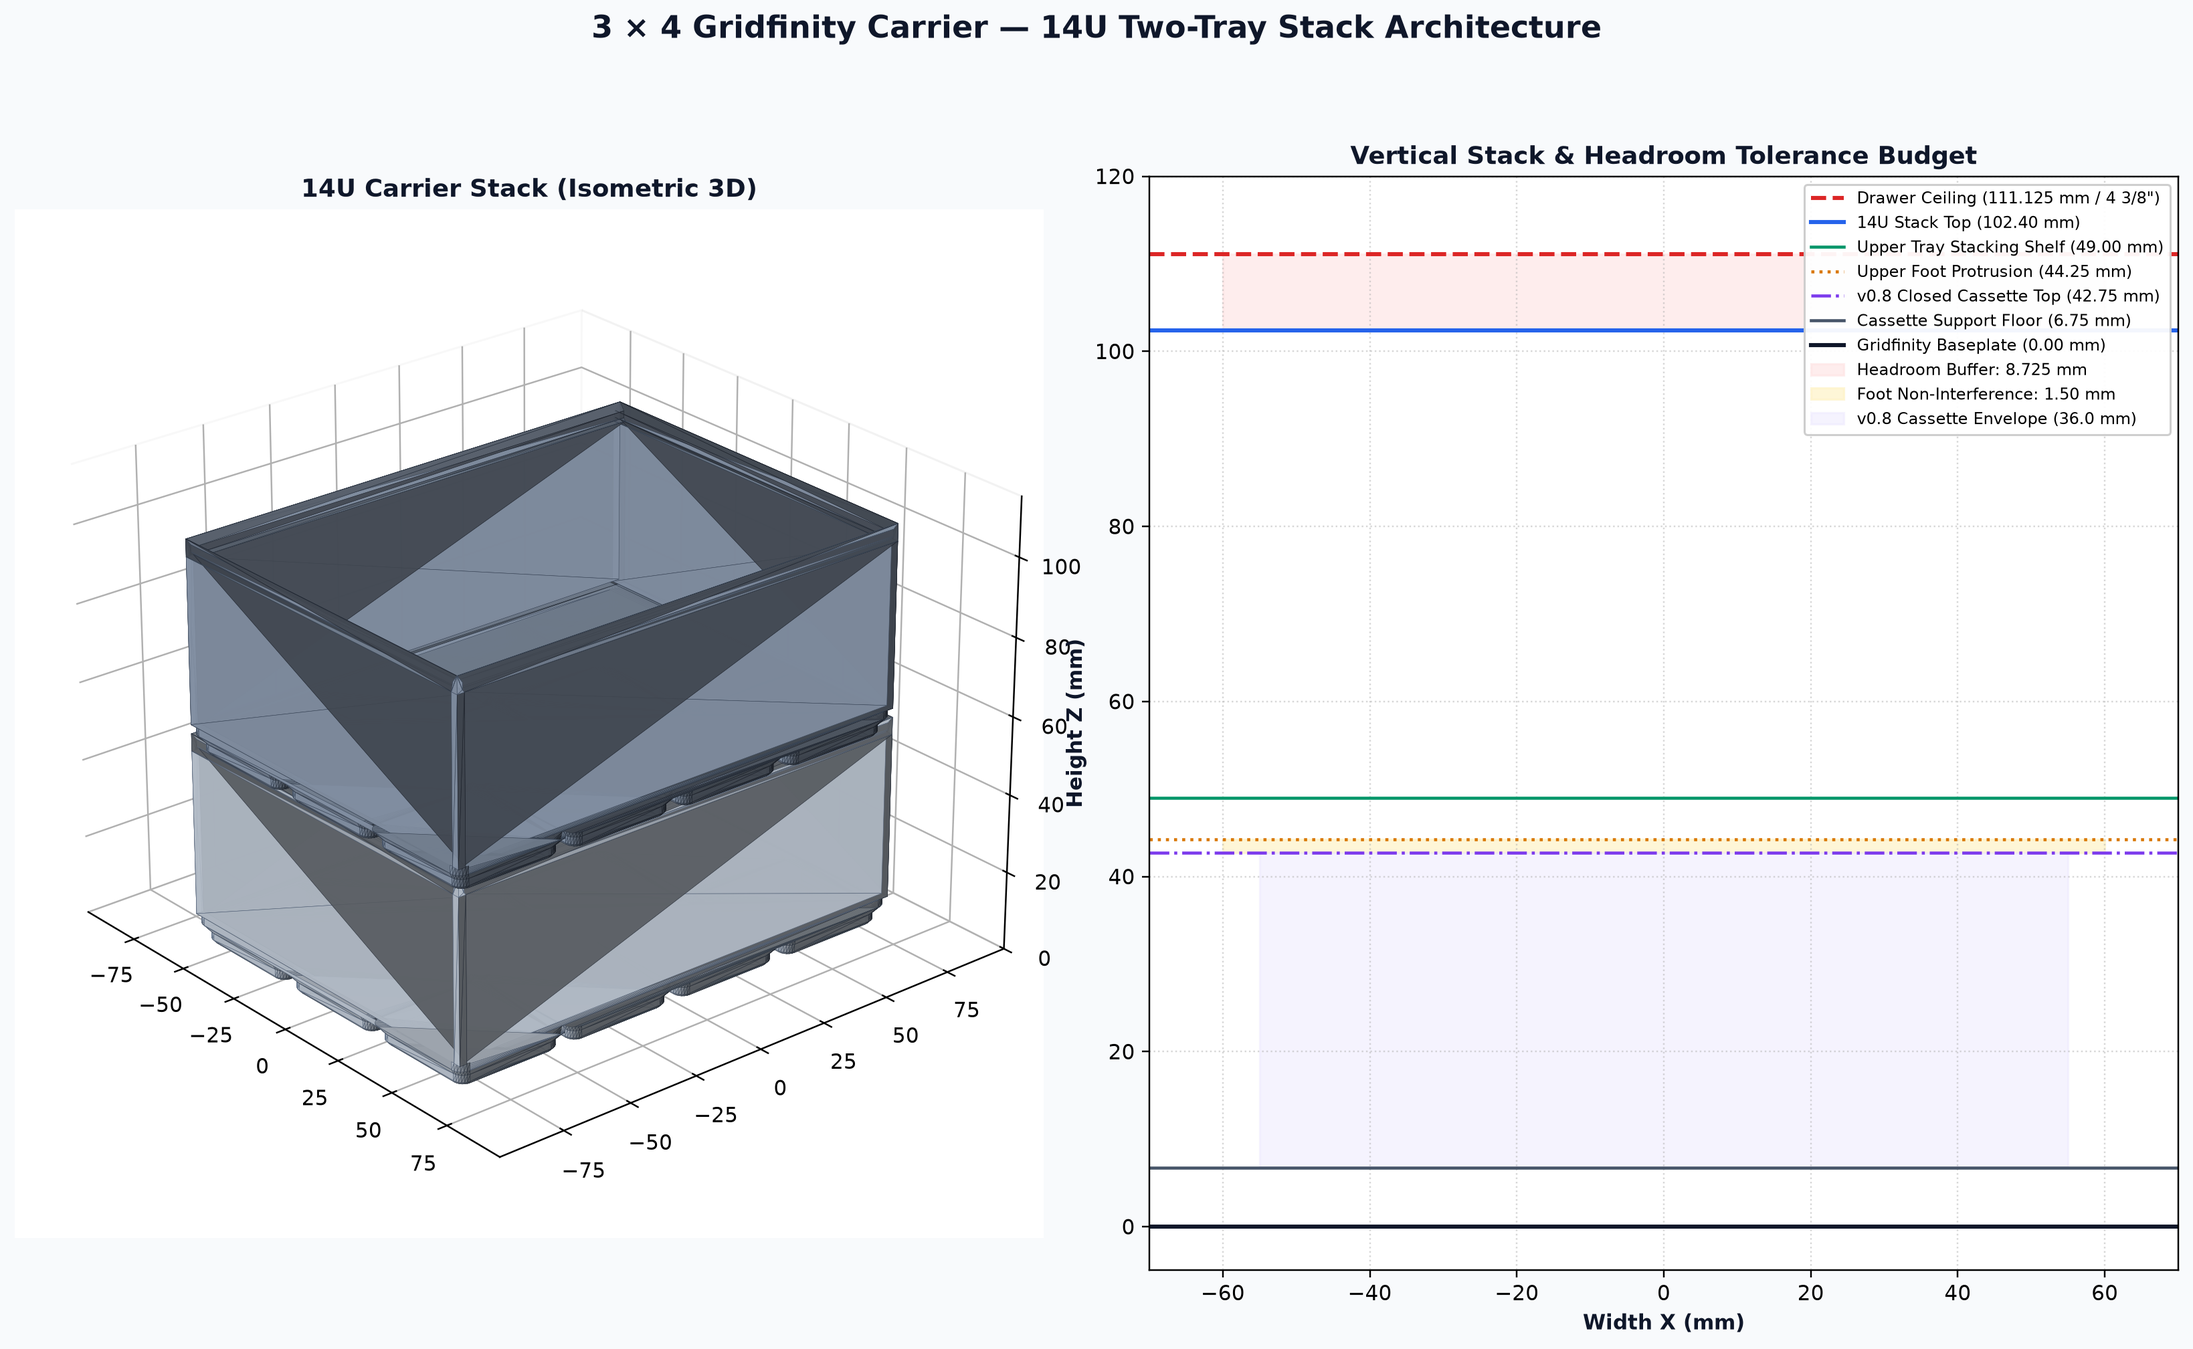
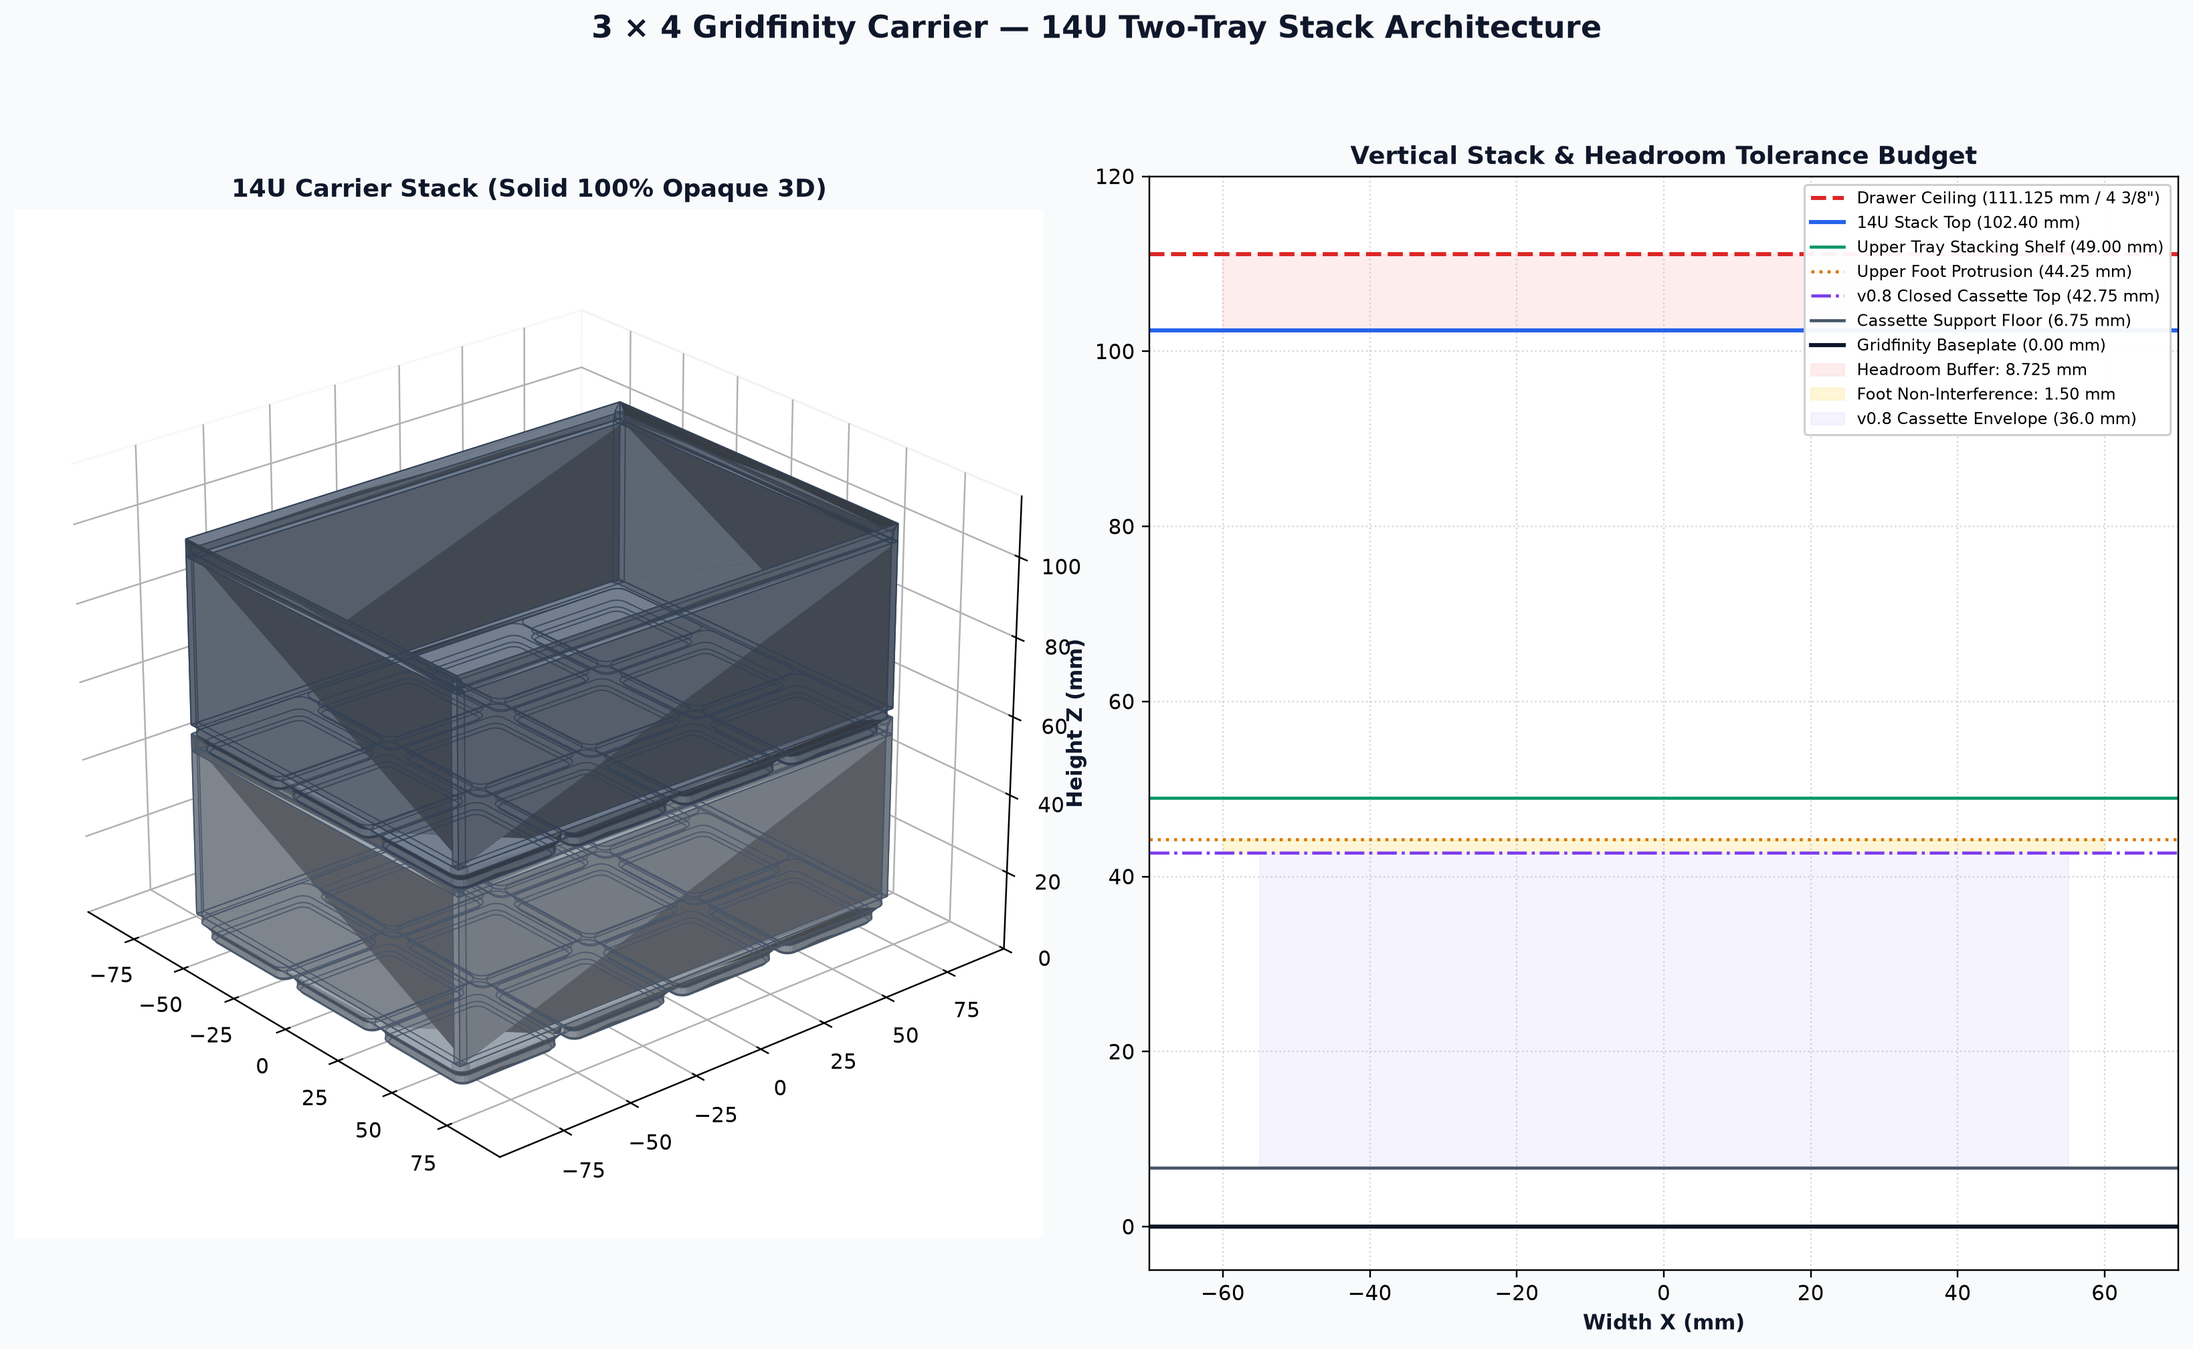
docs: update all 3D CAD renders to 100% solid opacity with crease lines and clean glass transparency

Changed region(s): [[0.0622, 0.2811, 0.4356, 0.8121], [0.0933, 0.1249, 0.3734, 0.1562]]

diff --git a/scripts/generate_all_renders.py b/scripts/generate_all_renders.py
@@ -1,12 +1,13 @@
 #!/usr/bin/env python3
-"""Generate high-resolution 3D renders of all Gridfinity Glass-Window Cassette components."""
+"""Generate high-resolution 100% opaque 3D CAD renders of all components with sharp feature lines."""
 
 from __future__ import annotations
 
-import struct
+import struct, shutil
 import numpy as np
 import matplotlib.pyplot as plt
-from mpl_toolkits.mplot3d.art3d import Poly3DCollection
+import matplotlib.colors as mcolors
+from mpl_toolkits.mplot3d.art3d import Poly3DCollection, Line3DCollection
 from pathlib import Path
 
 def load_stl(path: Path) -> np.ndarray:
@@ -23,8 +24,68 @@ def load_stl(path: Path) -> np.ndarray:
     arr = np.frombuffer(data, dtype=record_dtype, count=num_tri)
     return arr['vertices']
 
-def render_multiview(stl_path: Path, out_png: Path, title: str, subtitle: str, face_color='#38bdf8', edge_color='#0284c7'):
+def shade_triangles(verts: np.ndarray, base_color: str, light_dir=(0.45, -0.55, 0.70), fill_dir=(-0.50, 0.50, 0.40)) -> np.ndarray:
+    """Calculate key and fill directional lighting for clean solid CAD appearance."""
+    base_rgb = np.array(mcolors.to_rgb(base_color))
+    
+    u = verts[:, 1, :] - verts[:, 0, :]
+    v = verts[:, 2, :] - verts[:, 0, :]
+    normals = np.cross(u, v)
+    norms = np.linalg.norm(normals, axis=1, keepdims=True)
+    norms[norms == 0] = 1.0
+    normals = normals / norms
+    
+    l1 = np.array(light_dir) / np.linalg.norm(light_dir)
+    l2 = np.array(fill_dir) / np.linalg.norm(fill_dir)
+    
+    dot1 = np.maximum(0, np.sum(normals * l1, axis=1))
+    dot2 = np.maximum(0, np.sum(normals * l2, axis=1))
+    
+    intensity = 0.35 + 0.50 * dot1 + 0.15 * dot2
+    intensity = np.clip(intensity, 0.20, 1.0)
+    
+    return intensity[:, np.newaxis] * base_rgb
+
+def extract_feature_edges(verts: np.ndarray, angle_threshold_deg: float = 25.0) -> np.ndarray:
+    """Extract geometric crease lines (dihedral angle > threshold) to avoid mesh triangulation diagonals."""
+    cos_thresh = np.cos(np.radians(angle_threshold_deg))
+    
+    u = verts[:, 1, :] - verts[:, 0, :]
+    v = verts[:, 2, :] - verts[:, 0, :]
+    normals = np.cross(u, v)
+    norms = np.linalg.norm(normals, axis=1, keepdims=True)
+    norms[norms == 0] = 1.0
+    normals = normals / norms
+    
+    edge_dict = {}
+    for tri_idx, (tri, norm) in enumerate(zip(verts, normals)):
+        for i in range(3):
+            p1 = tuple(np.round(tri[i], 3))
+            p2 = tuple(np.round(tri[(i+1)%3], 3))
+            edge_key = tuple(sorted((p1, p2)))
+            if edge_key not in edge_dict:
+                edge_dict[edge_key] = []
+            edge_dict[edge_key].append((p1, p2, norm))
+            
+    feature_lines = []
+    for edge_key, face_list in edge_dict.items():
+        if len(face_list) == 1:
+            p1, p2, _ = face_list[0]
+            feature_lines.append([p1, p2])
+        elif len(face_list) >= 2:
+            n1 = face_list[0][2]
+            n2 = face_list[1][2]
+            dot = np.dot(n1, n2)
+            if dot < cos_thresh:
+                p1, p2, _ = face_list[0]
+                feature_lines.append([p1, p2])
+                
+    return np.array(feature_lines) if feature_lines else np.empty((0, 2, 3))
+
+def render_multiview(stl_path: Path, out_png: Path, title: str, subtitle: str, face_color='#38bdf8', line_color='#0284c7'):
     verts = load_stl(stl_path)
+    edges = extract_feature_edges(verts, angle_threshold_deg=25.0)
+    shaded_colors = shade_triangles(verts, face_color)
     
     fig = plt.figure(figsize=(15, 9.5), dpi=220)
     fig.patch.set_facecolor('#f8fafc')
@@ -46,8 +107,14 @@ def render_multiview(stl_path: Path, out_png: Path, title: str, subtitle: str, f
         ax = fig.add_subplot(2, 2, i, projection='3d')
         ax.set_facecolor('#ffffff')
         
-        poly = Poly3DCollection(verts, facecolors=face_color, edgecolors=edge_color, linewidth=0.25, alpha=0.92, shade=True)
+        # 100% Solid Opacity with custom directional shading and NO triangulation diagonals
+        poly = Poly3DCollection(verts, facecolors=shaded_colors, edgecolors='none', alpha=1.0, shade=False)
         ax.add_collection3d(poly)
+        
+        # Draw clean sharp geometric crease edges
+        if len(edges) > 0:
+            lines = Line3DCollection(edges, colors=line_color, linewidths=0.75, alpha=0.9)
+            ax.add_collection3d(lines)
         
         ax.set_xlim(mid[0] - max_range, mid[0] + max_range)
         ax.set_ylim(mid[1] - max_range, mid[1] + max_range)
@@ -71,22 +138,28 @@ def render_multiview(stl_path: Path, out_png: Path, title: str, subtitle: str, f
     out_png.parent.mkdir(parents=True, exist_ok=True)
     fig.savefig(out_png, facecolor=fig.get_facecolor(), edgecolor='none', bbox_inches='tight')
     plt.close(fig)
-    print(f'Rendered multiview: {out_png}')
+    print(f'Rendered 100% opaque multiview: {out_png}')
 
 def render_exploded_cassette(body_stl: Path, lid_stl: Path, out_png: Path):
     body_verts = load_stl(body_stl)
     lid_verts = load_stl(lid_stl)
     
-    # In lid_print.stl, it is printed top-face-down. Flip for assembled view:
+    body_edges = extract_feature_edges(body_verts, angle_threshold_deg=25.0)
+    body_shaded = shade_triangles(body_verts, '#38bdf8')
+    
+    # Flip lid for assembled right-side-up orientation:
     lid_flipped = lid_verts.copy()
     lid_flipped[:, :, 2] = 3.20 - lid_flipped[:, :, 2]
-    # Move lid up by 25 mm for exploded view:
-    lid_exploded = lid_flipped.copy()
-    lid_exploded[:, :, 2] += 32.80 + 22.00
     
-    # Glass slide: 25.0 x 75.0 x 1.15 mm at Z = 32.80 + 10.00
+    # Move lid up by 26 mm for exploded view:
+    lid_exploded = lid_flipped.copy()
+    lid_exploded[:, :, 2] += 32.80 + 26.00
+    lid_edges = extract_feature_edges(lid_exploded, angle_threshold_deg=25.0)
+    lid_shaded = shade_triangles(lid_exploded, '#60a5fa')
+    
+    # Glass slide: 25.0 x 75.0 x 1.15 mm at Z = 32.80 + 12.00 (translucent cyan)
     gw, gd, gt = 25.0, 75.0, 1.15
-    gz = 32.80 + 10.00
+    gz = 32.80 + 12.00
     gx0, gx1 = -gw/2, gw/2
     gy0, gy1 = -gd/2, gd/2
     gz0, gz1 = gz, gz + gt
@@ -98,29 +171,45 @@ def render_exploded_cassette(body_stl: Path, lid_stl: Path, out_png: Path):
         [[gx0, gy0, gz0], [gx1, gy0, gz0], [gx1, gy0, gz1], [gx0, gy0, gz1]],
         [[gx0, gy1, gz0], [gx0, gy1, gz1], [gx1, gy1, gz1], [gx1, gy1, gz0]],
     ]
+    glass_edges = [
+        [[gx0, gy0, gz0], [gx1, gy0, gz0]], [[gx1, gy0, gz0], [gx1, gy1, gz0]],
+        [[gx1, gy1, gz0], [gx0, gy1, gz0]], [[gx0, gy1, gz0], [gx0, gy0, gz0]],
+        [[gx0, gy0, gz1], [gx1, gy0, gz1]], [[gx1, gy0, gz1], [gx1, gy1, gz1]],
+        [[gx1, gy1, gz1], [gx0, gy1, gz1]], [[gx0, gy1, gz1], [gx0, gy0, gz1]],
+        [[gx0, gy0, gz0], [gx0, gy0, gz1]], [[gx1, gy0, gz0], [gx1, gy0, gz1]],
+        [[gx1, gy1, gz0], [gx1, gy1, gz1]], [[gx0, gy1, gz0], [gx0, gy1, gz1]],
+    ]
     
     fig = plt.figure(figsize=(14, 10), dpi=220)
     fig.patch.set_facecolor('#f8fafc')
     ax = fig.add_subplot(1, 1, 1, projection='3d')
     ax.set_facecolor('#ffffff')
     
-    # Add body (Sky blue PETG)
-    poly_body = Poly3DCollection(body_verts, facecolors='#38bdf8', edgecolors='#0284c7', linewidth=0.2, alpha=0.95, shade=True)
+    # 1. 100% Solid Body (Sky blue PETG)
+    poly_body = Poly3DCollection(body_verts, facecolors=body_shaded, edgecolors='none', alpha=1.0, shade=False)
     ax.add_collection3d(poly_body)
+    if len(body_edges) > 0:
+        lines_body = Line3DCollection(body_edges, colors='#0369a1', linewidths=0.75, alpha=0.95)
+        ax.add_collection3d(lines_body)
     
-    # Add glass (Transparent cyan)
-    poly_glass = Poly3DCollection(glass_box_faces, facecolors='#67e8f9', edgecolors='#0891b2', linewidth=0.4, alpha=0.45, shade=True)
+    # 2. Translucent Glass Slide (Cyan glass with crisp border lines)
+    poly_glass = Poly3DCollection(glass_box_faces, facecolors='#a5f3fc', edgecolors='none', alpha=0.45, shade=False)
     ax.add_collection3d(poly_glass)
+    lines_glass = Line3DCollection(glass_edges, colors='#0891b2', linewidths=1.0, alpha=0.9)
+    ax.add_collection3d(lines_glass)
     
-    # Add lid (Slate/Blue PETG)
-    poly_lid = Poly3DCollection(lid_exploded, facecolors='#60a5fa', edgecolors='#1d4ed8', linewidth=0.2, alpha=0.92, shade=True)
+    # 3. 100% Solid Lid (Royal Blue PETG)
+    poly_lid = Poly3DCollection(lid_exploded, facecolors=lid_shaded, edgecolors='none', alpha=1.0, shade=False)
     ax.add_collection3d(poly_lid)
+    if len(lid_edges) > 0:
+        lines_lid = Line3DCollection(lid_edges, colors='#1d4ed8', linewidths=0.75, alpha=0.95)
+        ax.add_collection3d(lines_lid)
     
-    # Add filament hinge pin (orange line)
+    # 4. 1.75 mm Filament Pin (Solid Orange line)
     pin_y = np.linspace(-38, 38, 50)
     pin_x = np.full_like(pin_y, -18.2)
-    pin_z = np.full_like(pin_y, 32.80 + 22.00 + 0.20)
-    ax.plot(pin_x, pin_y, pin_z, color='#f97316', linewidth=2.5)
+    pin_z = np.full_like(pin_y, 32.80 + 26.00 + 0.20)
+    ax.plot(pin_x, pin_y, pin_z, color='#ea580c', linewidth=3.0)
     
     all_pts = np.vstack([body_verts.reshape(-1, 3), lid_exploded.reshape(-1, 3)])
     min_b, max_b = all_pts.min(axis=0), all_pts.max(axis=0)
@@ -132,12 +221,12 @@ def render_exploded_cassette(body_stl: Path, lid_stl: Path, out_png: Path):
     ax.set_zlim(mid[2] - max_range * 0.7, mid[2] + max_range * 0.7)
     
     ax.view_init(elev=24, azim=-55)
-    ax.set_title("Small-Parts Cassette v0.8 — Exploded Assembly View", color='#0f172a', fontsize=15, fontweight='bold', pad=12)
+    ax.set_title("Small-Parts Cassette v0.8 — 100% Opaque CAD Exploded View", color='#0f172a', fontsize=15, fontweight='bold', pad=12)
     
-    ax.text(0, 0, 70, "1. Transverse Hinge Lid (PETG)", color='#1e3a8a', fontsize=11, fontweight='bold')
-    ax.text(0, 0, 48, "2. Microscope Glass Slide (75 × 25 × 1.15 mm)", color='#0e7490', fontsize=11, fontweight='bold')
-    ax.text(0, 0, 16, "3. Height-Optimized Body (30.8 mm Usable Depth)", color='#0369a1', fontsize=11, fontweight='bold')
-    ax.text(-22, 0, 58, "1.75 mm Filament Pin", color='#ea580c', fontsize=10, fontweight='bold')
+    ax.text(0, 0, 74, "1. Transverse Hinge Lid (100% Opaque PETG)", color='#1e3a8a', fontsize=11, fontweight='bold')
+    ax.text(0, 0, 50, "2. Microscope Glass Slide (Translucent 1.15 mm Glass)", color='#0e7490', fontsize=11, fontweight='bold')
+    ax.text(0, 0, 16, "3. Height-Optimized Body (100% Opaque PETG/ASA)", color='#0369a1', fontsize=11, fontweight='bold')
+    ax.text(-22, 0, 62, "1.75 mm Filament Pin", color='#ea580c', fontsize=10, fontweight='bold')
     
     ax.xaxis.pane.fill = False
     ax.yaxis.pane.fill = False
@@ -149,13 +238,19 @@ def render_exploded_cassette(body_stl: Path, lid_stl: Path, out_png: Path):
     out_png.parent.mkdir(parents=True, exist_ok=True)
     fig.savefig(out_png, facecolor=fig.get_facecolor(), edgecolor='none', bbox_inches='tight')
     plt.close(fig)
-    print(f'Rendered exploded cassette: {out_png}')
+    print(f'Rendered 100% opaque exploded cassette: {out_png}')
 
 def render_carrier_stack(carrier_stl: Path, out_png: Path):
     c_verts = load_stl(carrier_stl)
+    c_edges = extract_feature_edges(c_verts, angle_threshold_deg=25.0)
+    c_shaded_low = shade_triangles(c_verts, '#cbd5e1')
     
     c_upper = c_verts.copy()
     c_upper[:, :, 2] += 49.00
+    c_shaded_up = shade_triangles(c_upper, '#94a3b8')
+    c_upper_edges = c_edges.copy()
+    if len(c_upper_edges) > 0:
+        c_upper_edges[:, :, 2] += 49.00
     
     fig = plt.figure(figsize=(15, 9.5), dpi=220)
     fig.patch.set_facecolor('#f8fafc')
@@ -163,10 +258,16 @@ def render_carrier_stack(carrier_stl: Path, out_png: Path):
     ax1 = fig.add_subplot(1, 2, 1, projection='3d')
     ax1.set_facecolor('#ffffff')
     
-    poly_low = Poly3DCollection(c_verts, facecolors='#cbd5e1', edgecolors='#64748b', linewidth=0.2, alpha=0.90, shade=True)
-    poly_up = Poly3DCollection(c_upper, facecolors='#94a3b8', edgecolors='#475569', linewidth=0.2, alpha=0.90, shade=True)
+    # 100% Solid Carriers
+    poly_low = Poly3DCollection(c_verts, facecolors=c_shaded_low, edgecolors='none', alpha=1.0, shade=False)
+    poly_up = Poly3DCollection(c_upper, facecolors=c_shaded_up, edgecolors='none', alpha=1.0, shade=False)
     ax1.add_collection3d(poly_low)
     ax1.add_collection3d(poly_up)
+    
+    if len(c_edges) > 0:
+        ax1.add_collection3d(Line3DCollection(c_edges, colors='#475569', linewidths=0.6, alpha=0.9))
+    if len(c_upper_edges) > 0:
+        ax1.add_collection3d(Line3DCollection(c_upper_edges, colors='#334155', linewidths=0.6, alpha=0.9))
     
     all_pts = np.vstack([c_verts.reshape(-1, 3), c_upper.reshape(-1, 3)])
     min_b, max_b = all_pts.min(axis=0), all_pts.max(axis=0)
@@ -178,7 +279,7 @@ def render_carrier_stack(carrier_stl: Path, out_png: Path):
     ax1.set_zlim(0, 115)
     
     ax1.view_init(elev=25, azim=-40)
-    ax1.set_title("14U Carrier Stack (Isometric 3D)", color='#0f172a', fontsize=12, fontweight='bold')
+    ax1.set_title("14U Carrier Stack (Solid 100% Opaque 3D)", color='#0f172a', fontsize=12, fontweight='bold')
     ax1.xaxis.pane.fill = False
     ax1.yaxis.pane.fill = False
     ax1.zaxis.pane.fill = False
@@ -212,7 +313,7 @@ def render_carrier_stack(carrier_stl: Path, out_png: Path):
     out_png.parent.mkdir(parents=True, exist_ok=True)
     fig.savefig(out_png, facecolor=fig.get_facecolor(), edgecolor='none', bbox_inches='tight')
     plt.close(fig)
-    print(f'Rendered carrier stack: {out_png}')
+    print(f'Rendered 100% opaque carrier stack: {out_png}')
 
 def main():
     docs_img = Path('docs/images')
@@ -233,22 +334,31 @@ def main():
     render_multiview(body_stl, docs_img / 'cassette_body_v0_8_multiview.png',
                      "Small-Parts Cassette v0.8 Body",
                      "Nominal 38.6 × 80.0 × 32.8 mm · 30.8 mm usable internal depth · 2.0 mm solid floor",
-                     face_color='#38bdf8', edge_color='#0284c7')
+                     face_color='#38bdf8', line_color='#0284c7')
                      
     render_multiview(lid_stl, docs_img / 'cassette_lid_v0_8_multiview.png',
                      "Small-Parts Cassette v0.8 / v0.7 Lid (Print Top-Face Down)",
                      "27.0 × 1.4 mm end-loaded channel · 6.75 mm compliant PETG latch · 3-knuckle filament hinge",
-                     face_color='#60a5fa', edge_color='#1d4ed8')
+                     face_color='#60a5fa', line_color='#1d4ed8')
                      
     render_multiview(carrier_stl, docs_img / 'carrier_3x4_7u_multiview.png',
                      "3 × 4 Gridfinity Carrier Tray (7U Height)",
                      "125.5 × 167.5 × 53.4 mm outside · 120.3 × 162.3 mm throat · accommodates 6 cassettes",
-                     face_color='#cbd5e1', edge_color='#475569')
+                     face_color='#cbd5e1', line_color='#475569')
                      
     render_multiview(coupon_stl, docs_img / 'divider_coupon_multiview.png',
                      "Plan 003 — Divider Fit Coupon",
                      "4 slot tolerance stations: 1.30 mm, 1.40 mm, 1.50 mm, 1.60 mm · 0.6 mm floor groove",
-                     face_color='#a7f3d0', edge_color='#059669')
+                     face_color='#6ee7b7', line_color='#059669')
+
+    # Copy to component build folders
+    shutil.copy('docs/images/cassette_v0_8_exploded_assembly.png', 'Cassettes/glass_slide_cassette_40x80/build/cassette_v0_8_exploded_assembly.png')
+    shutil.copy('docs/images/cassette_body_v0_8_multiview.png', 'Cassettes/glass_slide_cassette_40x80/build/cassette_body_v0_8_multiview.png')
+    shutil.copy('docs/images/cassette_lid_v0_8_multiview.png', 'Cassettes/glass_slide_cassette_40x80/build/cassette_lid_v0_8_multiview.png')
+    shutil.copy('docs/images/carrier_3x4_14u_stack.png', 'Carriers/carrier_3x4_14u_test/build/carrier_3x4_14u_stack.png')
+    shutil.copy('docs/images/carrier_3x4_7u_multiview.png', 'Carriers/carrier_3x4_14u_test/build/carrier_3x4_7u_multiview.png')
+    shutil.copy('docs/images/divider_coupon_multiview.png', 'Cassettes/divider_fit_coupon_v0_1/build/divider_coupon_multiview.png')
+    print('All 100% opaque CAD renders generated and copied.')
 
 if __name__ == '__main__':
     main()
